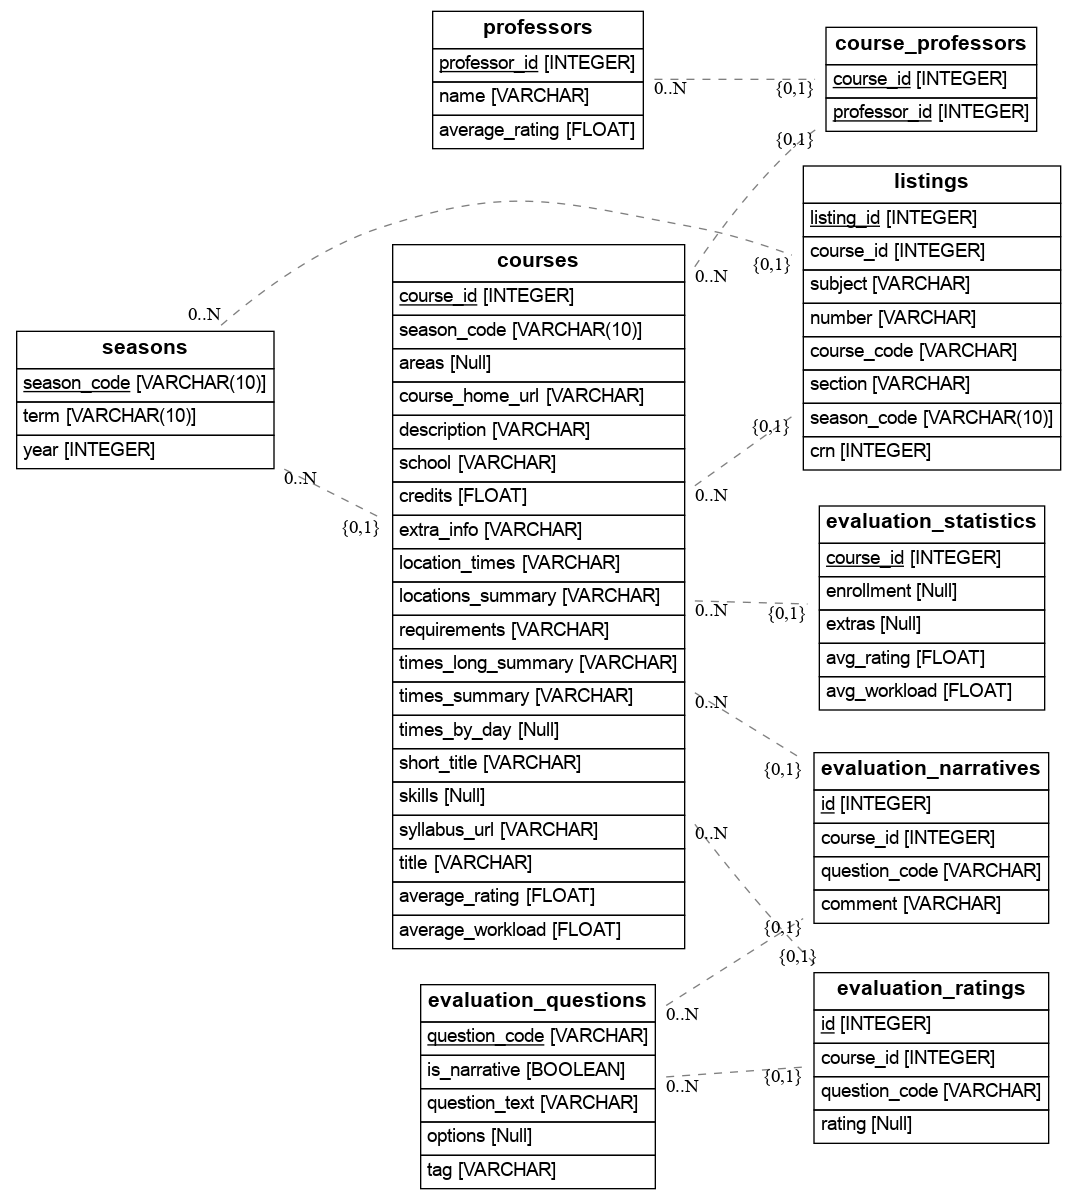
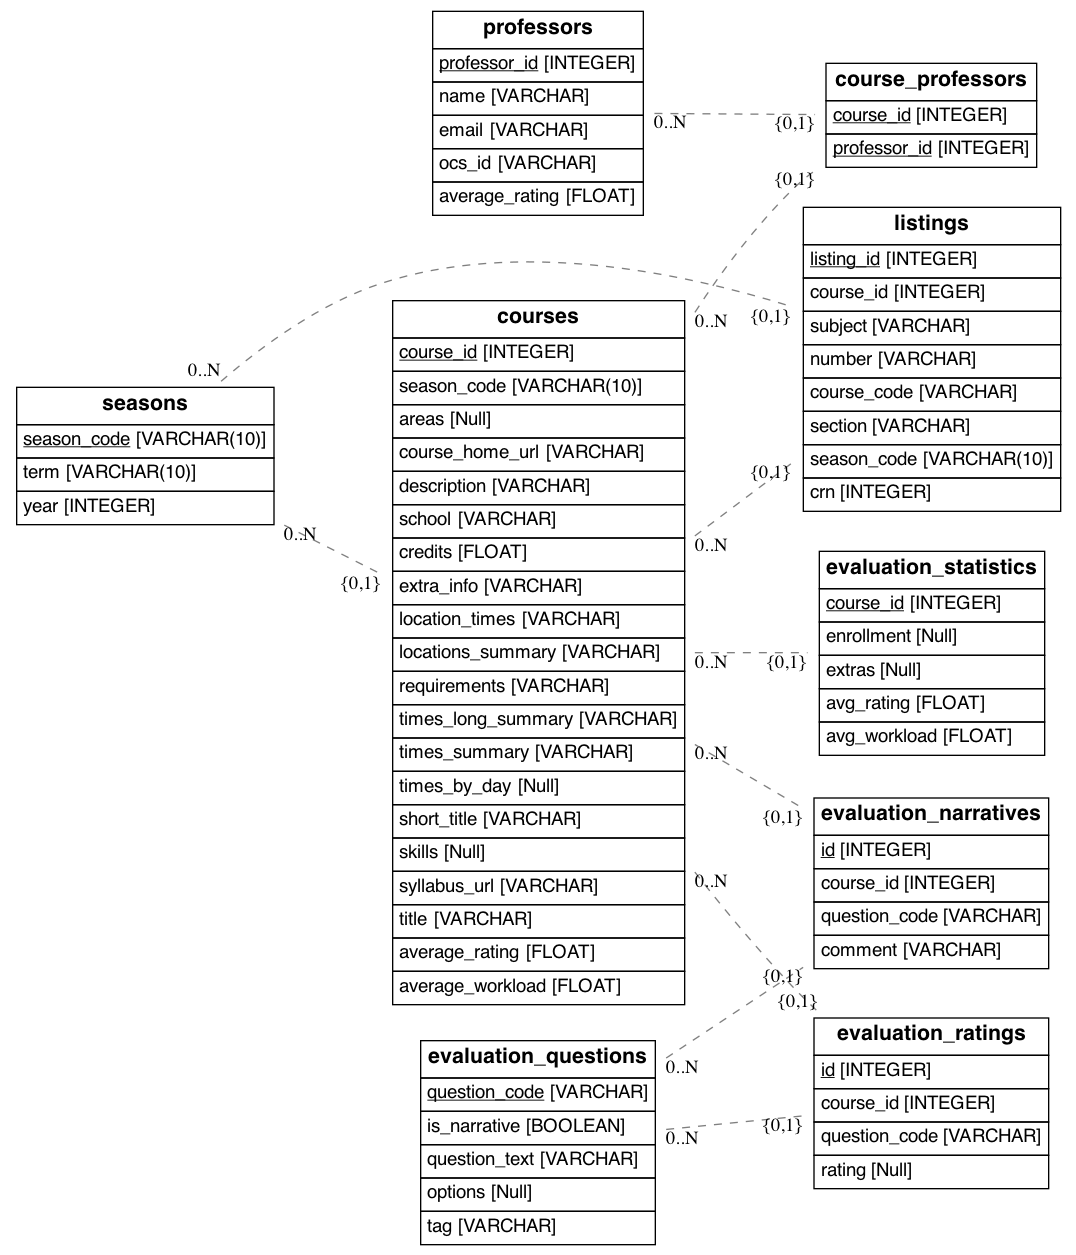
Add emails and OCS IDs to professors table

diff --git a/ferry/importer.py b/ferry/importer.py
@@ -59,8 +59,39 @@ def import_course(session, course_info):
     listing.section = course_info["section"]
 
     # Resolve professors.
-    def resolve_professor(name):
-        professor, _ = database.get_or_create(session, database.Professor, name=name)
+    def resolve_professor(name, email, ocs_id):
+        professor, professor_new = database.get_or_create(
+            session, database.Professor, name=name
+        )
+
+        # if we just added a new professor, set the email+ocs_id as well
+        if professor_new:
+            professor.email = email
+            professor.ocs_id = ocs_id
+
+            return professor
+
+        # otherwise, if the professor already exists, update email and ID if nonempty
+        if professor.email != email and email != "":
+
+            # if the old email is nonempty, log the change
+            if professor.email != "":
+                print(
+                    f"Updated email for professor '{name}': '{professor.email}'->'{email}'"
+                )
+
+            professor.email = email
+
+        if professor.ocs_id != ocs_id and ocs_id != "":
+
+            # if the old OCS ID is nonempty, log the change
+            if professor.ocs_id != "":
+                print(
+                    f"Updated OCS ID for professor '{name}': '{professor.ocs_id}'->'{ocs_id}'"
+                )
+
+            professor.ocs_id = ocs_id
+
         return professor
 
     # Populate course info.
@@ -81,9 +112,31 @@ def import_course(session, course_info):
     course.skills = course_info["skills"]
     course.syllabus_url = course_info["syllabus_url"]
     course.title = course_info["title"]
-    course.professors = [
-        resolve_professor(prof_name) for prof_name in course_info["professors"]
-    ]
+
+    course_professors = []
+
+    # if professor emails and ids provided, add them in
+    if "professor_emails" in course_info and "professor_ids" in course_info:
+
+        for professor, professor_email, professor_id in zip(
+            course_info["professors"],
+            course_info["professor_emails"],
+            course_info["professor_ids"],
+        ):
+
+            course_professors.append(
+                resolve_professor(professor, professor_email, professor_id)
+            )
+
+    # otherwise (for instance, when importing from migrated legacy files, only add the name)
+    else:
+
+        for professor in course_info["professors"]:
+
+            course_professors.append(resolve_professor(professor, "", ""))
+
+    course.professors = course_professors
+
     # TODO: course.location_times = course_info["TODO"]
 
 

diff --git a/ferry/database/models.py b/ferry/database/models.py
@@ -179,6 +179,8 @@ class Professor(BaseModel):
 
     professor_id = Column(Integer, comment="Professor ID", primary_key=True)
     name = Column(String, comment="Name of the professor", index=True, nullable=False)
+    email = Column(String, comment="Email address of the professor", nullable=False)
+    ocs_id = Column(String, comment="Professor ID used by Yale OCS", nullable=False)
 
     courses = relationship(
         "Course", secondary=course_professors, back_populates="professors"
